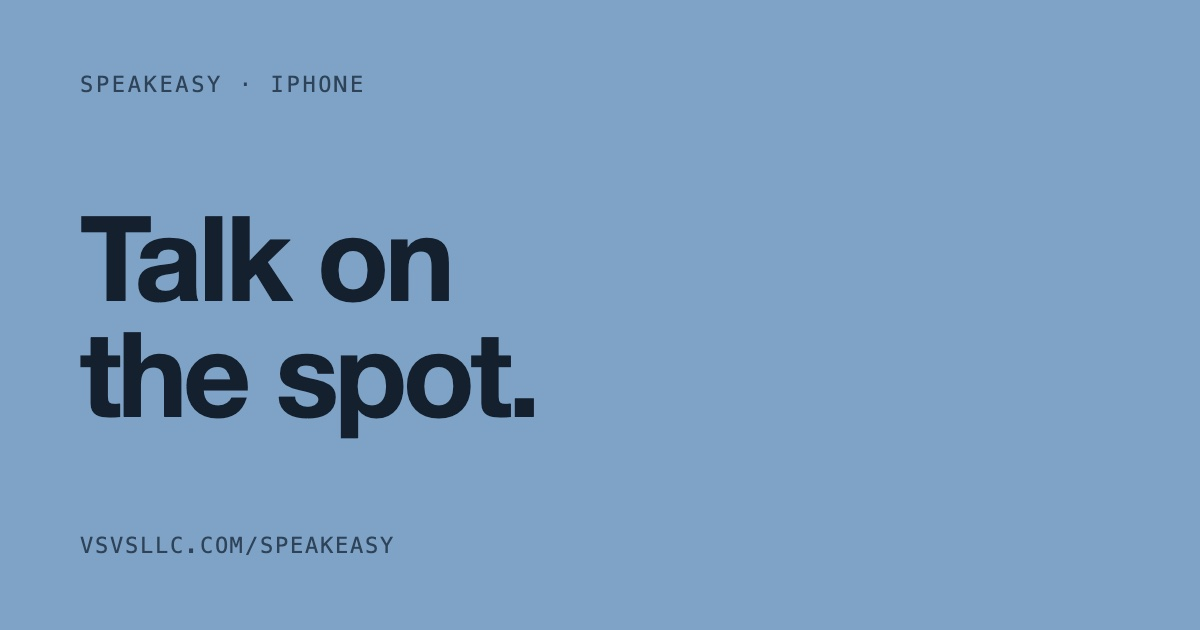
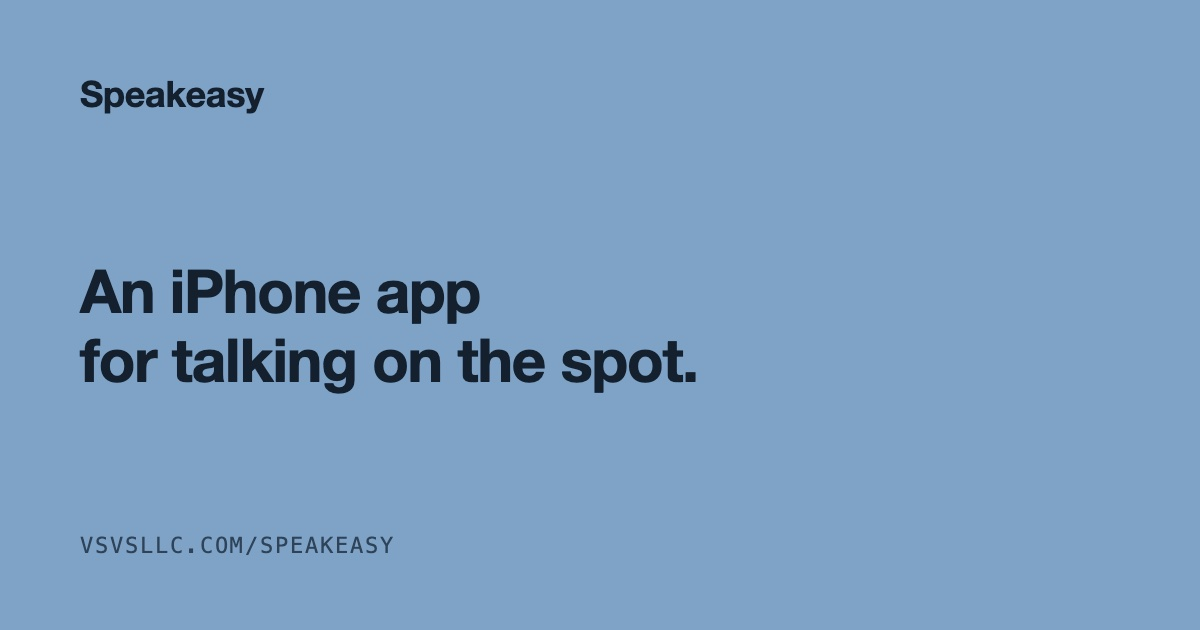
The opening line is a sentence, not a poster
The headline was set at up to 108px, rose into place on load, and the
contact email was set the same size in the blue block. That is the
Awwwards shape, and it reads as generated. Both pages now open with one
sentence at 28 to 40px, the load animation is gone, the email is a
plain underlined link at 20 to 26px, and the link-preview images match.

Claude-Session: https://claude.ai/code/session_01L3iws6QqjHq5MLtF2eYU3V

Changed region(s): [[0.0617, 0.3317, 0.5858, 0.6937], [0.0617, 0.1206, 0.3083, 0.181]]

diff --git a/speakeasy/index.html b/speakeasy/index.html
@@ -33,7 +33,6 @@
     --display: "Archivo", "Helvetica Neue", Arial, sans-serif;
     --body: "IBM Plex Sans", "Helvetica Neue", Arial, sans-serif;
     --mono: "IBM Plex Mono", "SFMono-Regular", Menlo, Consolas, monospace;
-    --ease: cubic-bezier(0.22, 1, 0.36, 1);
   }
   * { box-sizing: border-box; }
   html { -webkit-text-size-adjust: 100%; scroll-padding-top: 24px; }
@@ -63,23 +62,15 @@
   }
   .top nav a:hover { color: var(--ink); }
 
-  .hero { padding-block: clamp(40px, 8vh, 96px) clamp(48px, 7vw, 96px); }
+  .hero { padding-block: clamp(36px, 7vh, 88px) clamp(40px, 6vw, 80px); }
   h1 {
-    margin: 18px 0 0;
+    margin: 0;
     font-family: var(--display); font-weight: 700;
-    font-size: clamp(2.75rem, 7.4vw, 6.75rem);
-    line-height: 0.98; letter-spacing: -0.035em;
-    max-width: 12ch;
+    font-size: clamp(1.75rem, 3vw, 2.5rem);
+    line-height: 1.2; letter-spacing: -0.02em;
+    max-width: 20em; text-wrap: balance;
   }
-  .line { display: block; overflow: hidden; padding-bottom: 0.08em; margin-bottom: -0.08em; }
-  .line > span { display: block; transform: translateY(110%); animation: rise 0.8s var(--ease) forwards; }
-  .line:nth-child(2) > span { animation-delay: 0.08s; }
-  .az { color: var(--blue-ink); }
-  .lede {
-    max-width: 32em; margin: 32px 0 0;
-    font-size: clamp(1.05rem, 1.35vw, 1.2rem); line-height: 1.55;
-    opacity: 0; animation: fade 0.7s ease 0.4s forwards;
-  }
+  .lede { max-width: 34em; margin: 20px 0 0; }
   .lede a, .text a { color: var(--blue-ink); text-decoration: underline; text-underline-offset: 0.15em; text-decoration-thickness: 1.5px; transition: color 160ms ease; }
   .lede a:hover, .text a:hover { color: var(--ink); }
 
@@ -89,34 +80,27 @@
   .text p { margin: 0; max-width: 34em; }
   .text p + p { margin-top: 1.1em; }
 
-  .close { background: var(--blue); color: var(--on-blue); margin-top: clamp(24px, 4vw, 48px); padding-block: clamp(56px, 8vw, 112px) 32px; }
+  .close { background: var(--blue); color: var(--on-blue); margin-top: clamp(24px, 4vw, 48px); padding-block: clamp(44px, 6vw, 80px) 28px; }
   .close .label { color: var(--on-blue-soft); }
   .mail {
-    display: inline-block; margin-top: 18px; max-width: 100%;
+    display: inline-block; margin-top: 12px; max-width: 100%;
     font-family: var(--display); font-weight: 700;
-    font-size: clamp(1.6rem, 4.6vw, 4.25rem); line-height: 1.05; letter-spacing: -0.03em;
-    color: var(--on-blue); text-decoration: none;
-    border-bottom: 0.06em solid var(--on-blue); padding-bottom: 0.06em;
+    font-size: clamp(1.25rem, 2vw, 1.6rem); line-height: 1.3; letter-spacing: -0.015em;
+    color: var(--on-blue); text-decoration: underline; text-underline-offset: 0.16em; text-decoration-thickness: 2px;
     transition: opacity 160ms ease;
   }
   .mail:hover { opacity: 0.72; }
-  .close .note { margin: 28px 0 0; max-width: 34em; color: var(--on-blue-soft); font-size: 16px; }
+  .close .note { margin: 20px 0 0; max-width: 34em; color: var(--on-blue-soft); font-size: 16px; }
   .foot {
     display: flex; flex-wrap: wrap; justify-content: space-between; gap: 8px 32px;
-    margin-top: clamp(48px, 6vw, 80px); padding-bottom: max(0px, env(safe-area-inset-bottom));
+    margin-top: clamp(40px, 5vw, 64px); padding-bottom: max(0px, env(safe-area-inset-bottom));
     font-family: var(--mono); font-size: 11.5px; letter-spacing: 0.08em; text-transform: uppercase; color: var(--on-blue-soft);
   }
 
-  @keyframes rise { to { transform: none; } }
-  @keyframes fade { to { opacity: 1; } }
-  @media (prefers-reduced-motion: reduce) {
-    .line > span { animation: none; transform: none; }
-    .lede { animation: none; opacity: 1; }
-    * { transition: none !important; }
-  }
+  @media (prefers-reduced-motion: reduce) { * { transition: none !important; } }
 
-  .store { display: inline-block; margin-top: 28px; font-family: var(--display); font-weight: 700; font-size: clamp(1.15rem, 1.8vw, 1.5rem); letter-spacing: -0.02em; color: var(--blue-ink); text-decoration: none; border-bottom: 2px solid var(--blue-ink); padding-bottom: 2px; transition: color 160ms ease, border-color 160ms ease; }
-  .store:hover { color: var(--ink); border-color: var(--ink); }
+  .store { display: inline-block; margin-top: 22px; font-family: var(--display); font-weight: 700; font-size: 1.05rem; letter-spacing: -0.01em; color: var(--blue-ink); text-decoration: underline; text-underline-offset: 0.16em; text-decoration-thickness: 2px; transition: color 160ms ease; }
+  .store:hover { color: var(--ink); }
   .text ul { margin: 0.6em 0 0; padding-left: 1.1em; max-width: 34em; }
   .text li + li { margin-top: 0.35em; }
 </style>
@@ -134,9 +118,8 @@
 
 <main id="top">
   <section class="hero wrap">
-    <p class="label">An iPhone app from VSVS LLC</p>
-    <h1><span class="line"><span>Speakeasy.</span></span><span class="line"><span class="az">Talk on the spot.</span></span></h1>
-    <p class="lede">Two words that have nothing to do with each other, sixty seconds on the clock, and you have to say something out loud that connects them. Speakeasy is impromptu speaking practice for people who freeze when they have to think without a script.</p>
+    <h1>Speakeasy is an iPhone app for talking on the spot.</h1>
+    <p class="lede">Two words that have nothing to do with each other, sixty seconds on the clock, and you have to say something out loud that connects them. It is practice for people who freeze when they have to think without a script.</p>
     <a class="store" href="https://apps.apple.com/app/id6803355515">Download on the App Store</a>
   </section>
 

diff --git a/index.html b/index.html
@@ -33,7 +33,6 @@
     --display: "Archivo", "Helvetica Neue", Arial, sans-serif;
     --body: "IBM Plex Sans", "Helvetica Neue", Arial, sans-serif;
     --mono: "IBM Plex Mono", "SFMono-Regular", Menlo, Consolas, monospace;
-    --ease: cubic-bezier(0.22, 1, 0.36, 1);
   }
   * { box-sizing: border-box; }
   html { -webkit-text-size-adjust: 100%; scroll-padding-top: 24px; }
@@ -63,23 +62,15 @@
   }
   .top nav a:hover { color: var(--ink); }
 
-  .hero { padding-block: clamp(40px, 8vh, 96px) clamp(48px, 7vw, 96px); }
+  .hero { padding-block: clamp(36px, 7vh, 88px) clamp(40px, 6vw, 80px); }
   h1 {
-    margin: 18px 0 0;
+    margin: 0;
     font-family: var(--display); font-weight: 700;
-    font-size: clamp(2.75rem, 7.4vw, 6.75rem);
-    line-height: 0.98; letter-spacing: -0.035em;
-    max-width: 12ch;
+    font-size: clamp(1.75rem, 3vw, 2.5rem);
+    line-height: 1.2; letter-spacing: -0.02em;
+    max-width: 20em; text-wrap: balance;
   }
-  .line { display: block; overflow: hidden; padding-bottom: 0.08em; margin-bottom: -0.08em; }
-  .line > span { display: block; transform: translateY(110%); animation: rise 0.8s var(--ease) forwards; }
-  .line:nth-child(2) > span { animation-delay: 0.08s; }
-  .az { color: var(--blue-ink); }
-  .lede {
-    max-width: 32em; margin: 32px 0 0;
-    font-size: clamp(1.05rem, 1.35vw, 1.2rem); line-height: 1.55;
-    opacity: 0; animation: fade 0.7s ease 0.4s forwards;
-  }
+  .lede { max-width: 34em; margin: 20px 0 0; }
   .lede a, .text a { color: var(--blue-ink); text-decoration: underline; text-underline-offset: 0.15em; text-decoration-thickness: 1.5px; transition: color 160ms ease; }
   .lede a:hover, .text a:hover { color: var(--ink); }
 
@@ -89,31 +80,24 @@
   .text p { margin: 0; max-width: 34em; }
   .text p + p { margin-top: 1.1em; }
 
-  .close { background: var(--blue); color: var(--on-blue); margin-top: clamp(24px, 4vw, 48px); padding-block: clamp(56px, 8vw, 112px) 32px; }
+  .close { background: var(--blue); color: var(--on-blue); margin-top: clamp(24px, 4vw, 48px); padding-block: clamp(44px, 6vw, 80px) 28px; }
   .close .label { color: var(--on-blue-soft); }
   .mail {
-    display: inline-block; margin-top: 18px; max-width: 100%;
+    display: inline-block; margin-top: 12px; max-width: 100%;
     font-family: var(--display); font-weight: 700;
-    font-size: clamp(1.6rem, 4.6vw, 4.25rem); line-height: 1.05; letter-spacing: -0.03em;
-    color: var(--on-blue); text-decoration: none;
-    border-bottom: 0.06em solid var(--on-blue); padding-bottom: 0.06em;
+    font-size: clamp(1.25rem, 2vw, 1.6rem); line-height: 1.3; letter-spacing: -0.015em;
+    color: var(--on-blue); text-decoration: underline; text-underline-offset: 0.16em; text-decoration-thickness: 2px;
     transition: opacity 160ms ease;
   }
   .mail:hover { opacity: 0.72; }
-  .close .note { margin: 28px 0 0; max-width: 34em; color: var(--on-blue-soft); font-size: 16px; }
+  .close .note { margin: 20px 0 0; max-width: 34em; color: var(--on-blue-soft); font-size: 16px; }
   .foot {
     display: flex; flex-wrap: wrap; justify-content: space-between; gap: 8px 32px;
-    margin-top: clamp(48px, 6vw, 80px); padding-bottom: max(0px, env(safe-area-inset-bottom));
+    margin-top: clamp(40px, 5vw, 64px); padding-bottom: max(0px, env(safe-area-inset-bottom));
     font-family: var(--mono); font-size: 11.5px; letter-spacing: 0.08em; text-transform: uppercase; color: var(--on-blue-soft);
   }
 
-  @keyframes rise { to { transform: none; } }
-  @keyframes fade { to { opacity: 1; } }
-  @media (prefers-reduced-motion: reduce) {
-    .line > span { animation: none; transform: none; }
-    .lede { animation: none; opacity: 1; }
-    * { transition: none !important; }
-  }
+  @media (prefers-reduced-motion: reduce) { * { transition: none !important; } }
 </style>
 <script type="application/ld+json">{"@context":"https://schema.org","@type":"Organization","name":"VSVS LLC","url":"https://vsvsllc.com/","email":"hello@vsvsllc.com","areaServed":{"@type":"State","name":"Arizona"},"description":"A small property company that owns houses across Arizona and rents them out."}</script>
 </head>
@@ -129,9 +113,8 @@
 
 <main id="top">
   <section class="hero wrap">
-    <p class="label">A small property company</p>
-    <h1><span class="line"><span>Houses across</span></span><span class="line"><span class="az">Arizona.</span></span></h1>
-    <p class="lede">VSVS LLC owns and rents out houses across Arizona. For anything to do with one of the houses, write to <a href="mailto:hello@vsvsllc.com">hello@vsvsllc.com</a>.</p>
+    <h1>VSVS LLC owns houses across Arizona and rents them out.</h1>
+    <p class="lede">For anything to do with one of the houses, write to <a href="mailto:hello@vsvsllc.com">hello@vsvsllc.com</a>.</p>
   </section>
 
   <section class="row wrap" id="about">
